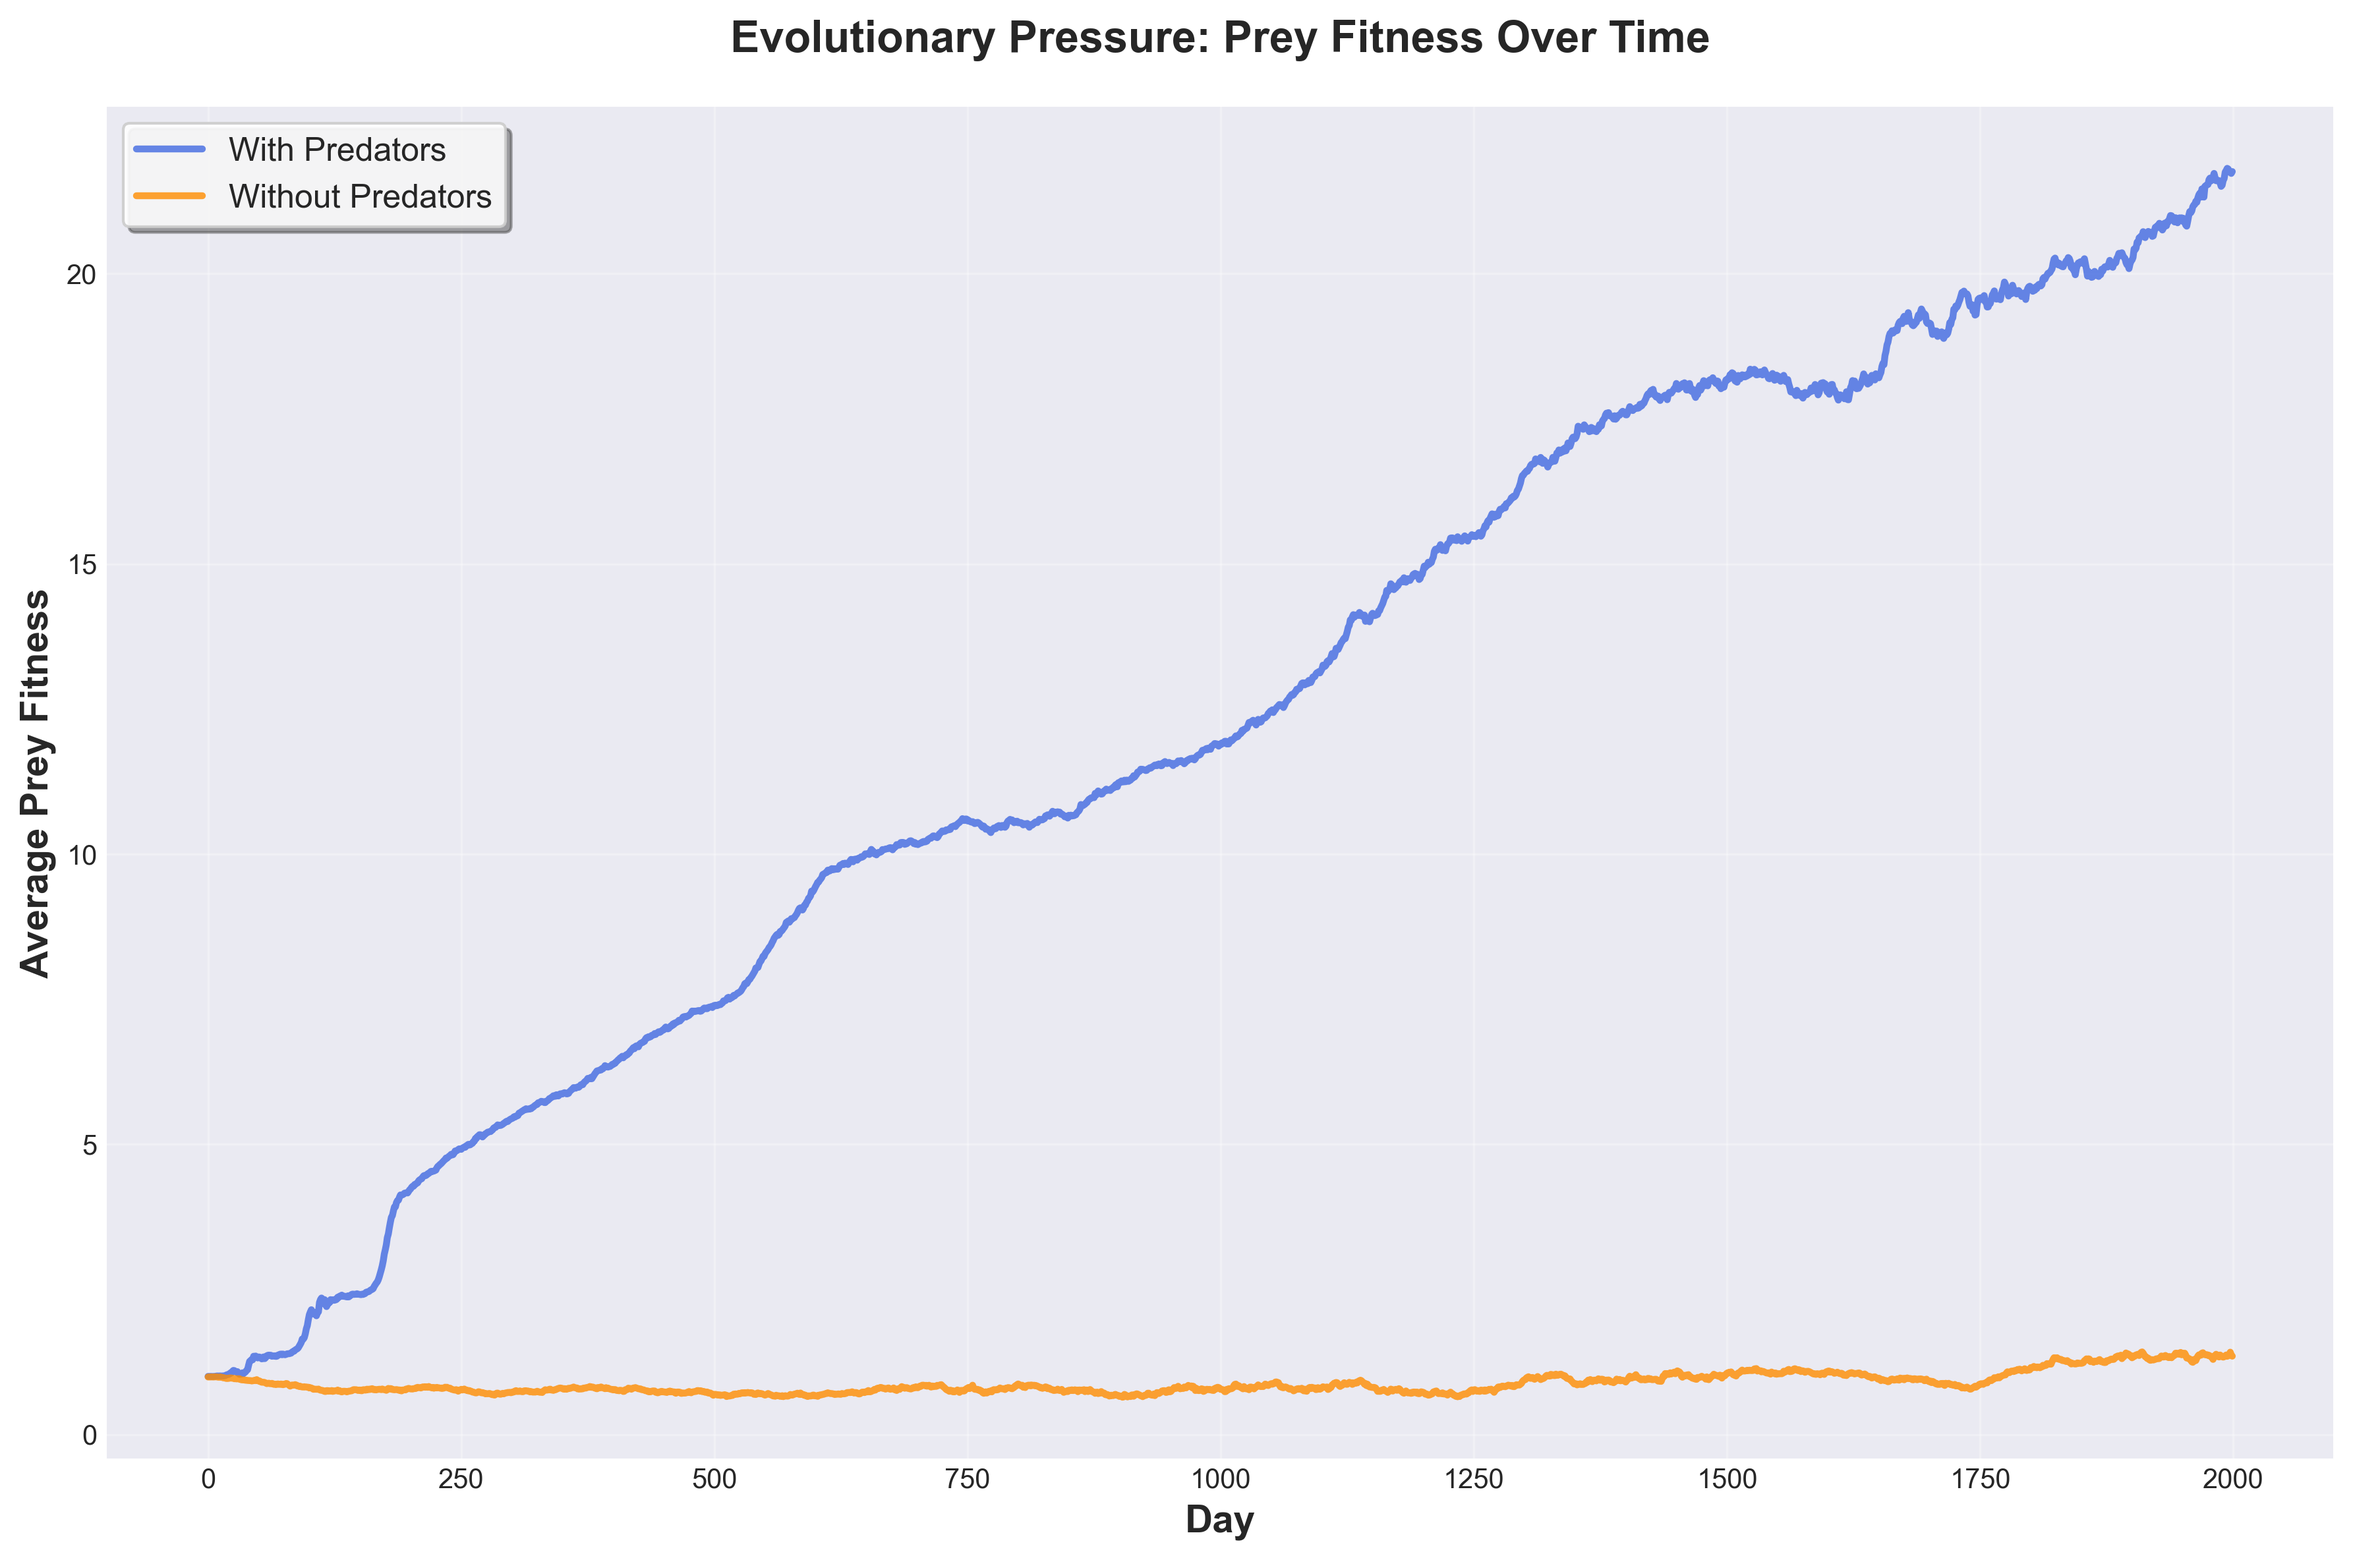
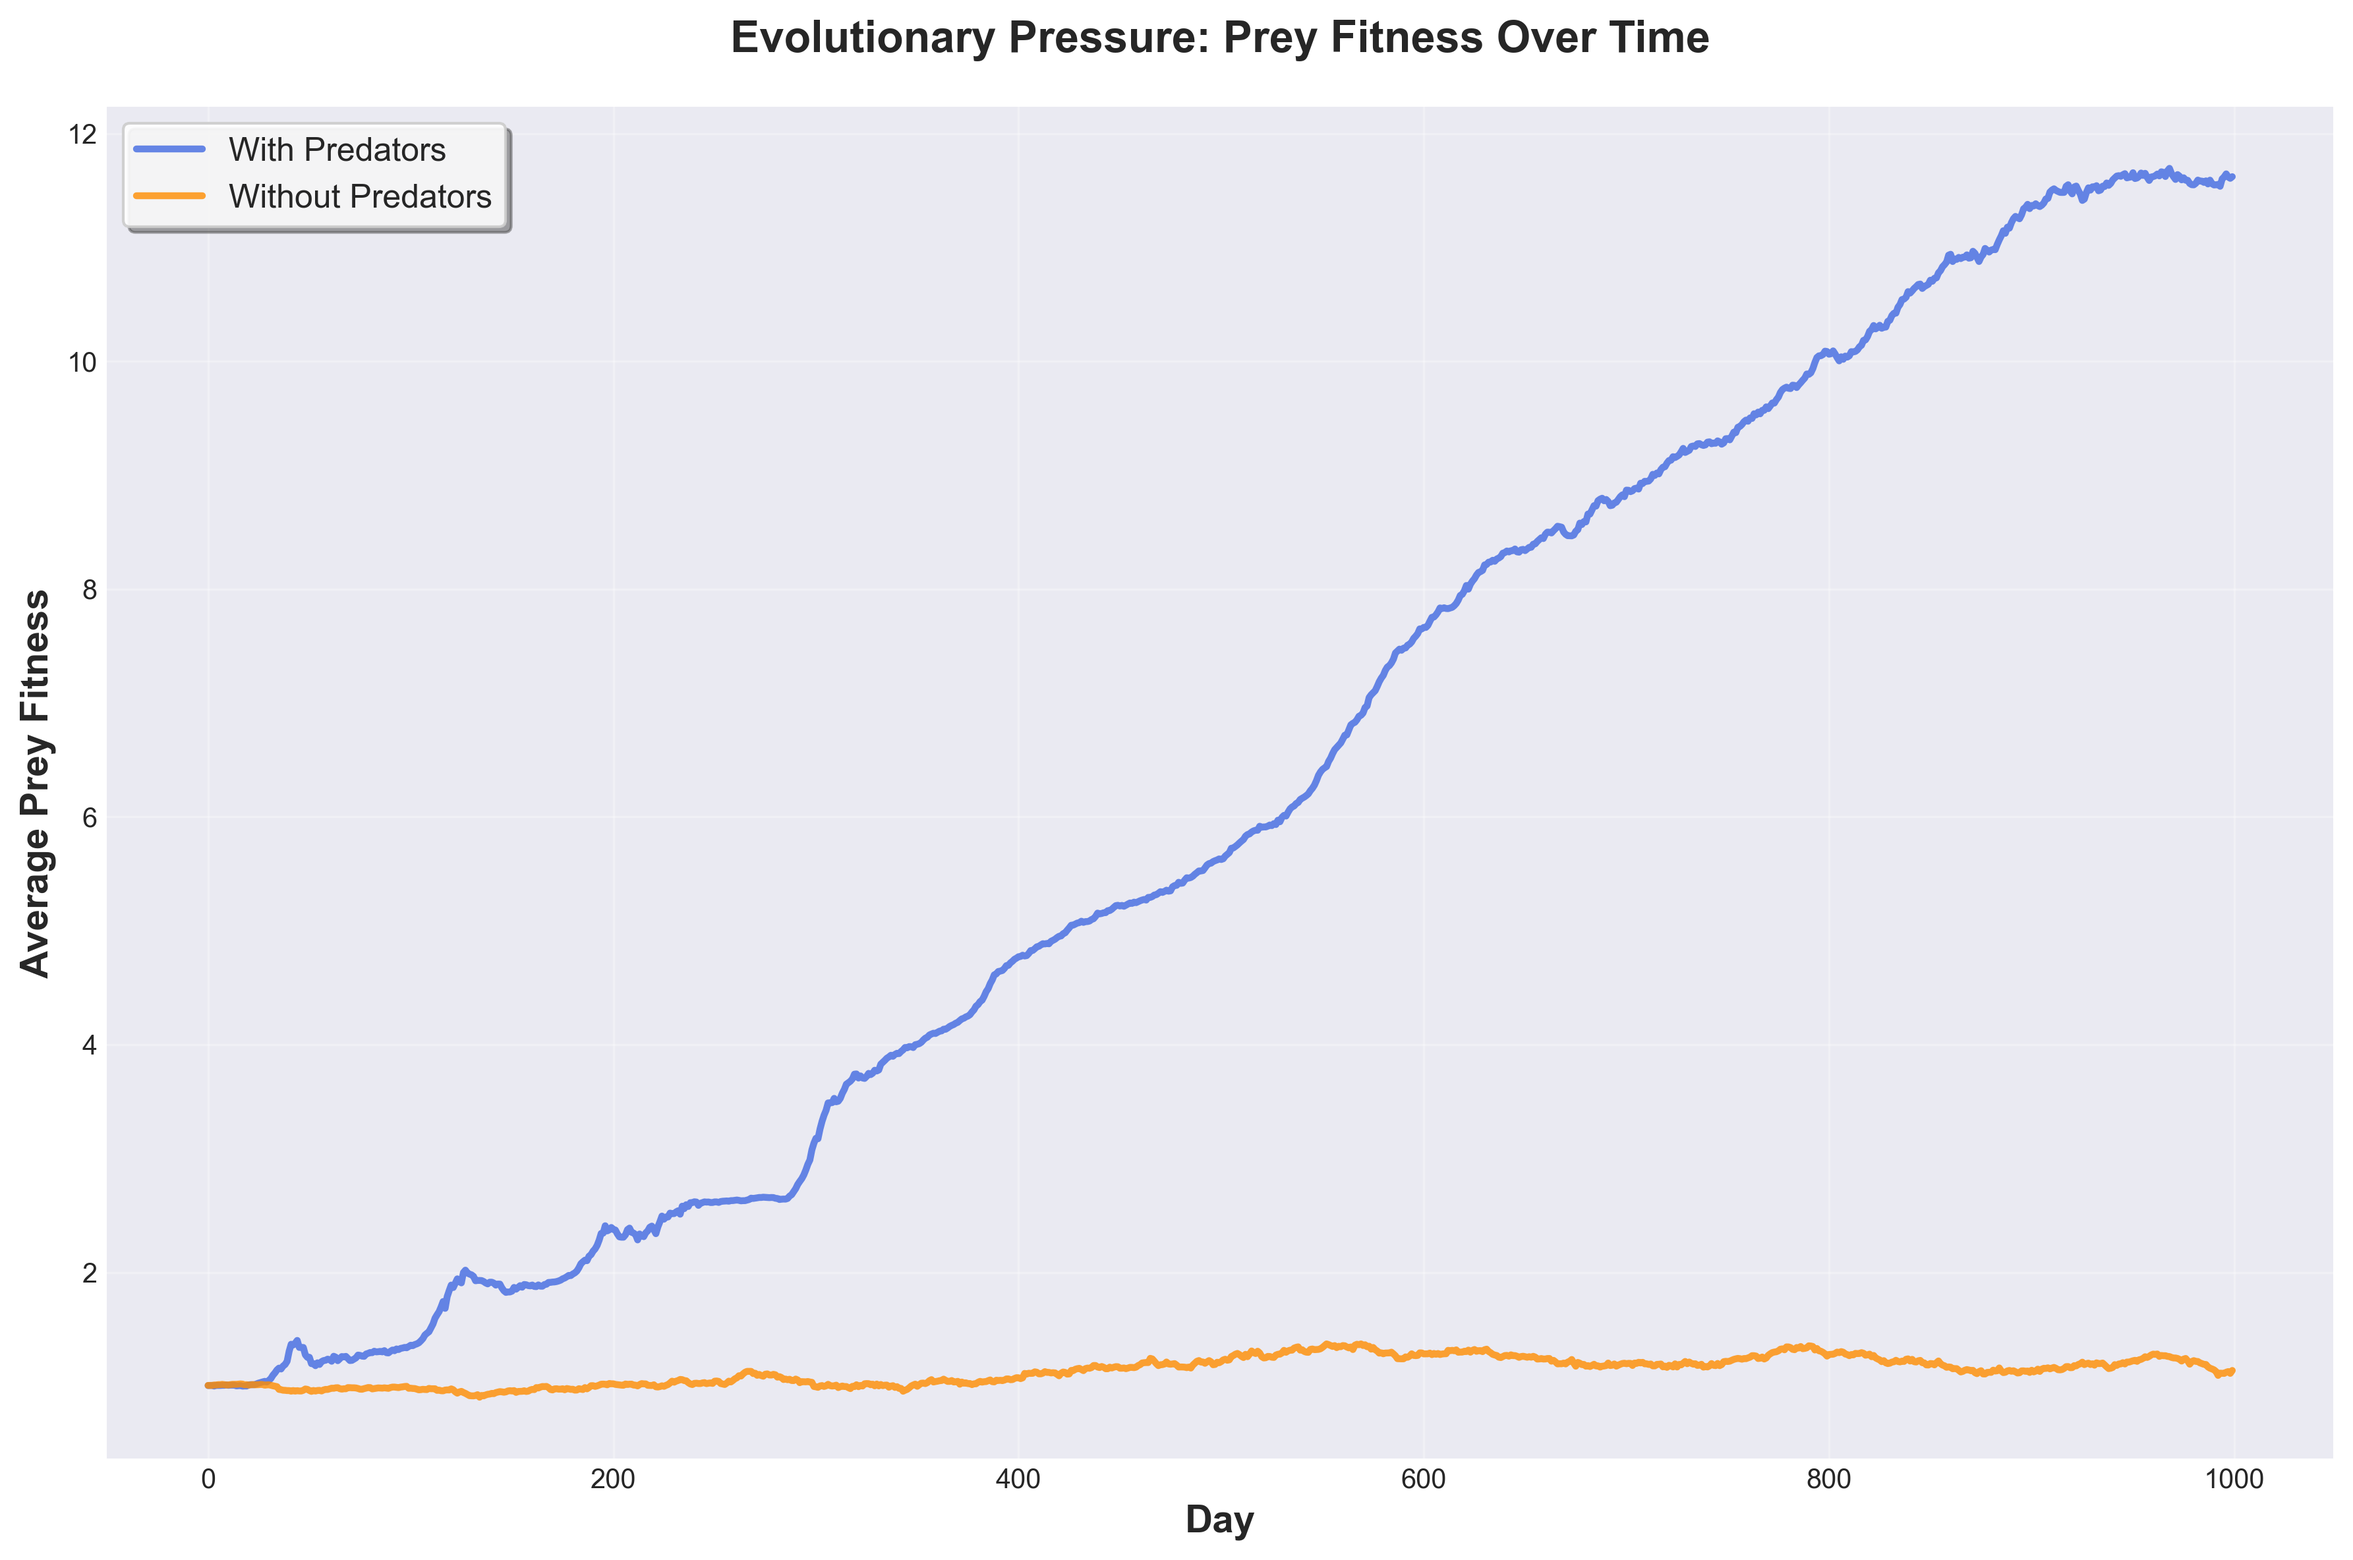
fixed mutation rate

diff --git a/final_project/ecosystem_simulation.py b/final_project/ecosystem_simulation.py
@@ -709,7 +709,7 @@ class SimulationRunner:
         )
 
         avg_prey_fitness_no_pred_list = []
-        for day in range(2000):
+        for day in range(self.days):
             if len(world_no_pred.prey_list) > 0:
                 avg_prey_fitness_no_pred_list.append(
                     np.mean([prey.fitness for prey in world_no_pred.prey_list])
@@ -745,8 +745,8 @@ class SimulationRunner:
         ax.grid(True, alpha=0.3)
 
         plt.tight_layout()
-        filename = "predator_predator_adition_fig"
-        plt.savefig(filename, dpi=300, bbox_inches='tight')
+        filename = "predator_predator_addition_fig"
+        plt.savefig(FIGURES_PATH+"predator_predator_addition_fig" , dpi=300, bbox_inches='tight')
 
     def analyze_results(self):
         """Analyze and print correlation statistics."""
@@ -782,27 +782,29 @@ class SimulationRunner:
 
 def main():
     """Main entry point for the simulation."""
-    # 1) Run the extended sim (predators added halfway)
+
     runner = SimulationRunner(days=1000)
     print("=== Running Extended Simulation with Added Predators ===")
     world = World(prey_number=300, predator_number=10, grass_amount=300, seasonal=False)
-    runner.run_simulation_with_added_predators(world)
-
-    # 2) Make the before/after population plot (optional)
-    runner.plot_extended_population_figure(predator_addition_day=1000)
-
-    # 3) Run the control (NO predators) to get the comparison fitness series
-    print("Running control simulation without predators...")
+    runner.run_simulation(world = world)
     avg_prey_fitness_no_pred = runner.run_control_simulation(
         prey_number=300, grass_amount=300, seasonal=False
     )
-
-    # 4) Now this has what plot_all_figures needs ✅
     runner.plot_all_figures(avg_prey_fitness_no_pred_list=avg_prey_fitness_no_pred,
                             seasonal=False)
+    print("Running control simulation without predators...")
+
+
     print(f"Simulation completed. Total days simulated: {len(runner.days_list)}")
     print(f"Final prey population (with added predators): {runner.prey_pop_list[-1]}")
     print(f"Final predator population (with added predators): {runner.pred_pop_list[-1]}")
+
+
+    runner_with_added_predators=SimulationRunner(days=1000)
+    world_for_added_predators = World(prey_number=300, predator_number=10, grass_amount=300, seasonal=False)
+    runner_with_added_predators.run_simulation_with_added_predators(world_for_added_predators)
+    runner_with_added_predators.plot_extended_population_figure(predator_addition_day=1000)
+
 
 
 
